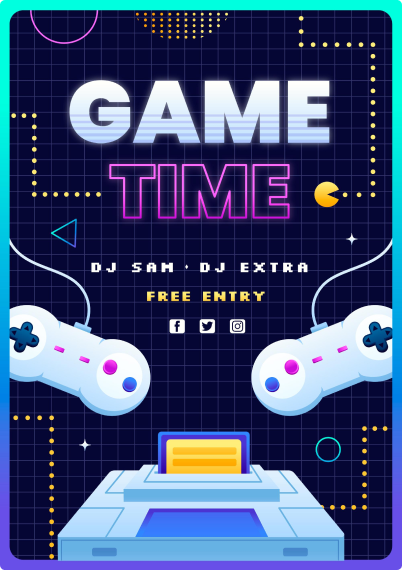
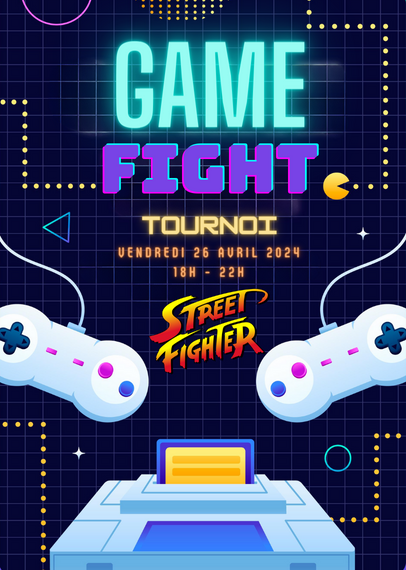
ajout des affiches personnalisées et bordures scss

diff --git a/frontend/src/components/Connexion.jsx b/frontend/src/components/Connexion.jsx
@@ -12,31 +12,6 @@ export default function Connexion({ onClose }) {
     e.stopPropagation();
   };
 
-  const [pseudo, setPseudo] = useState("");
-  const [password, setPassword] = useState("");
-
-  const handleLogin = async () => {
-    try {
-      const response = await axios.post(
-        "http://localhost:3310/api/utilisateur",
-        {
-          pseudo:pseudo,
-          password: password,
-        }
-      );
-
-      if (response.data.success) {
-        alert("Connexion réussie");
-        // Rediriger ou effectuer d'autres actions après la connexion réussie
-      } else {
-        alert(response.data.message);
-      }
-    } catch (error) {
-      console.error("Une erreur s'est produite lors de la connexion", error);
-      alert("Une erreur s'est produite lors de la connexion.");
-    }
-  };
-
   return (
     <div className="container-connexion" onClick={onClose} role="presentation">
       <div

diff --git a/frontend/src/styles/pages/_events.scss b/frontend/src/styles/pages/_events.scss
@@ -3,6 +3,7 @@
   justify-content: center;
   flex-direction: column;
   width: 100%;
+  
 
   h1 {
     font-size: 5rem;
@@ -14,9 +15,15 @@
   }
 
   .container-affiches {
+   
     width: 100%;
     display: flex;
     justify-content: space-around;
     padding: 20px;
+  }
+
+  img {
+
+    border: 3px solid rgb(255, 255, 255);
   }
 }
